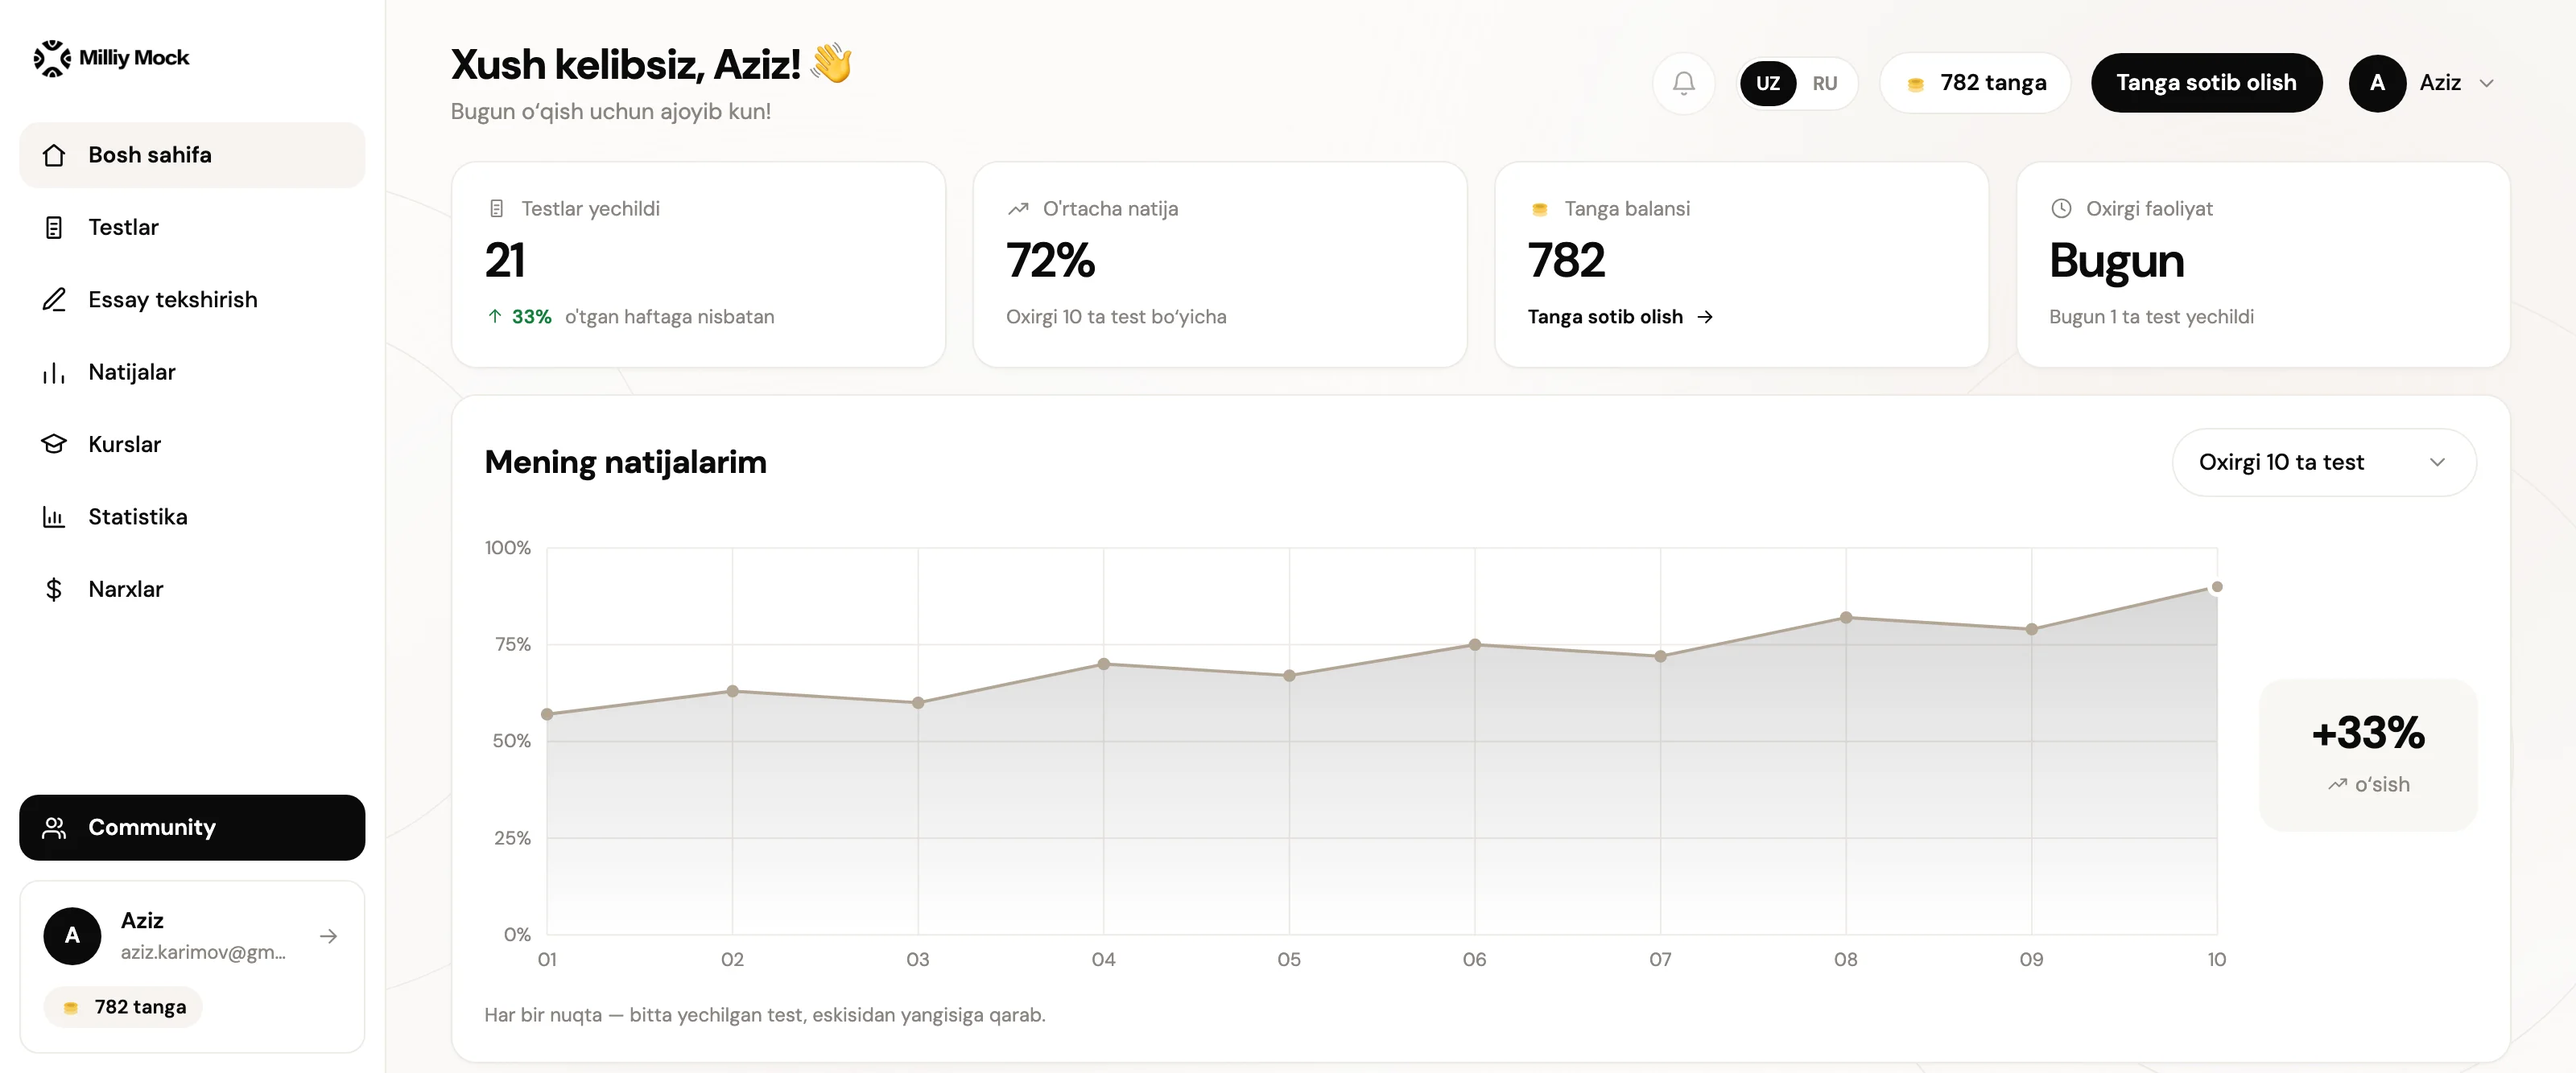
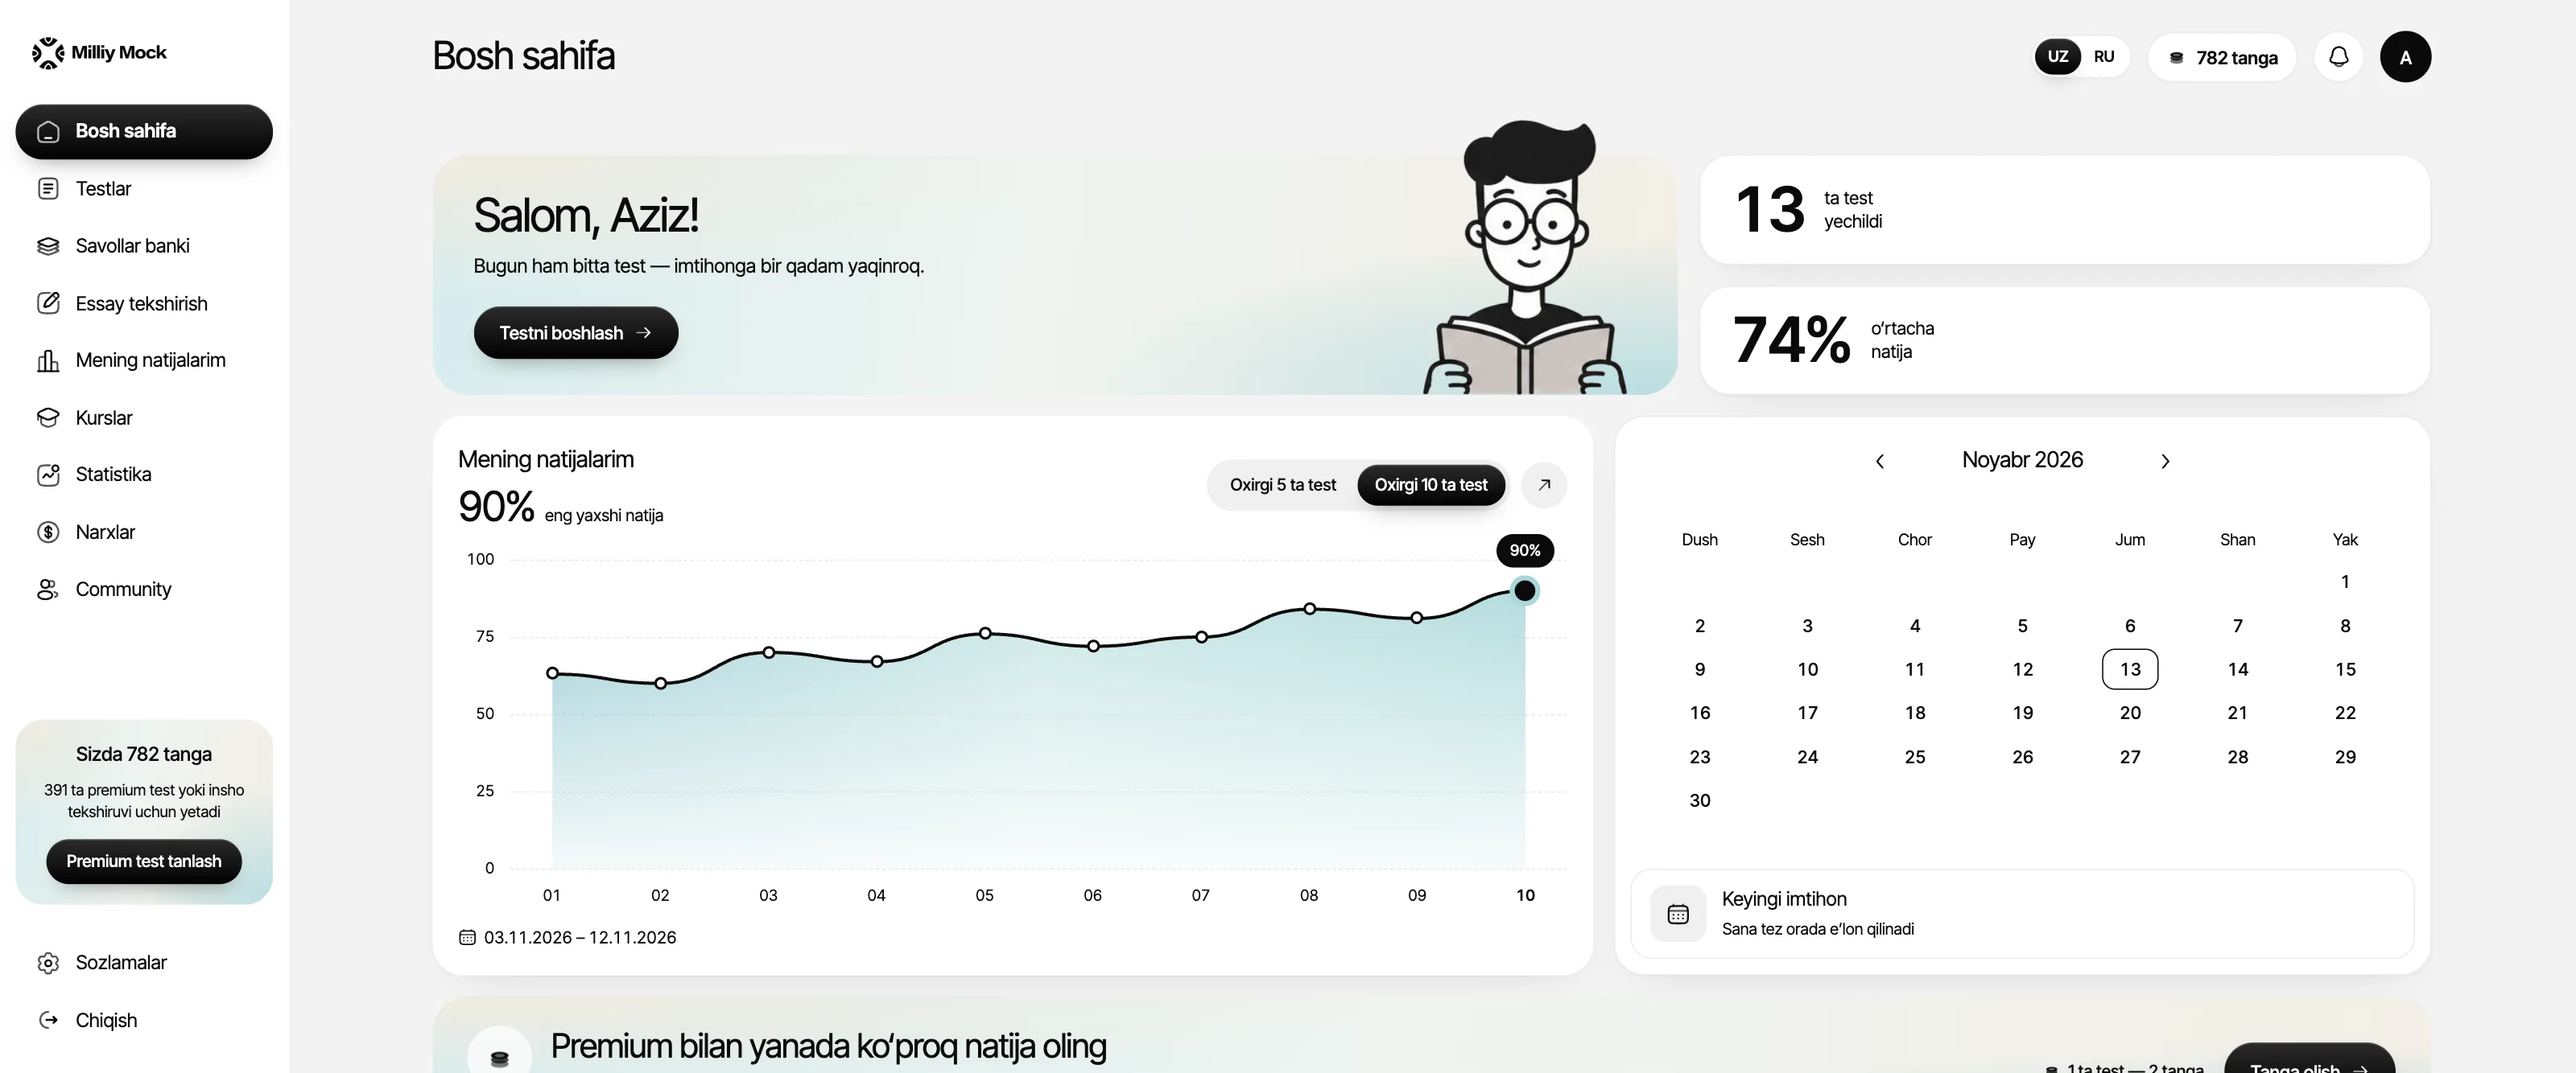
Retake the dashboard screenshots in the new platform look
The landing hero and /platforma still showed the dashboard from before the
redesign. Both captures are now the live /dashboard with staged sample data.

diff --git a/src/components/marketing/LandingHero.vue b/src/components/marketing/LandingHero.vue
@@ -24,7 +24,9 @@ const { start } = usePlatformEntry()
 // the panel can fill the page width in one screen. Dashboard and essay are the
 // local dev app with staged sample data (the same "Aziz" figures as
 // bosh-sahifa.webp), test is the dev-only /biologiya/test. To retake one, keep
-// that ratio: the hero's panel is sized from it.
+// that ratio: the hero's panel is sized from it. The dashboard is laid out at
+// 2000x834 and rasterised at 1.6x (still 3200x1334) so the whole score chart
+// and calendar fit above the fold.
 const tabs = [
   {
     id: 'platform',
